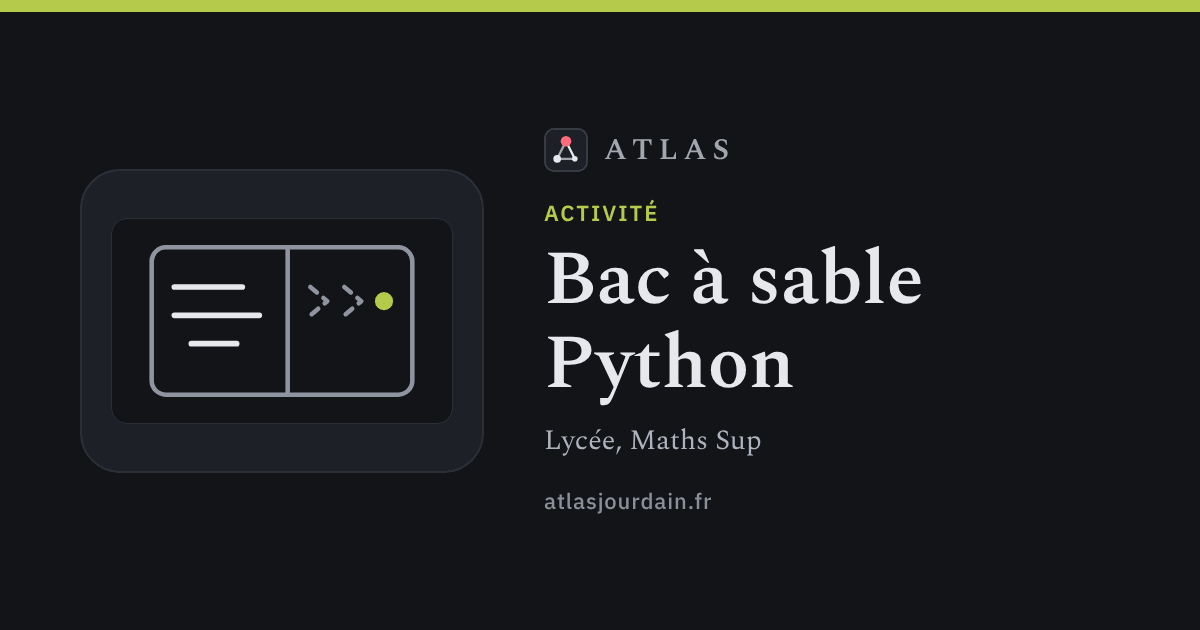
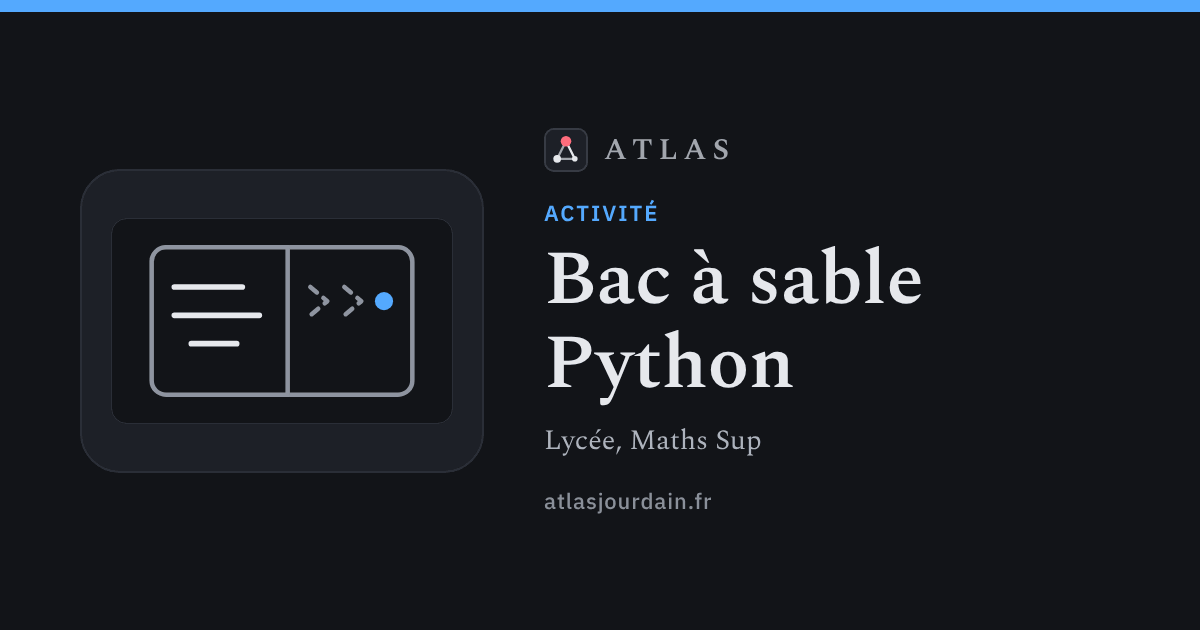
Activités : aperçu de partage du bac à sable Python à sa couleur
Claude-Session: https://claude.ai/code/session_01Fc4dPFi51AuBaZFB9X2Mw3

Changed region(s): [[0.0, 0.0, 1.0, 0.0302], [0.4317, 0.3016, 0.555, 0.3619], [0.3083, 0.4524, 0.3392, 0.5127]]

diff --git a/MEMO_atlas_activites.md b/MEMO_atlas_activites.md
@@ -1578,3 +1578,5 @@ Essai réel (Playwright, 1280 et 1600 px, 390 et 375 px, clair et sombre) : exé
 
 
 **Deux retouches du même jour (demandes de l'auteur).** Bac à sable Python : le texte sous l'atelier était limité à 78 caractères de large ; il remplit maintenant la page, comme dans les autres activités (règle du §123). Vignette du parcours du jour : trois des six cercles étaient posés à vue, à côté de la courbe en pointillés ; ils sont maintenant aux points calculés de la courbe de Bézier, (16 ; 54), (48 ; 20), (64 ; 37), (80 ; 54), (95,25 ; 40), (106 ; 20), et les cercles vides ont un fond opaque pour que les pointillés ne les traversent pas. RÈGLE rappelée : dans une vignette aussi, tout point annoncé sur une courbe se calcule.
+
+**Images d'aperçu et couleurs (question de l'auteur, 13 nov.).** L'empreinte d'une image d'aperçu porte le NOM de la variable de couleur et la vignette, pas la valeur de la couleur : changer la vignette ou la teinte d'une activité (son nom) fait refaire l'image, mais changer la valeur d'une variable du gabarit (comme `--activites-raison`, passé du rouge à l'or) ne la fait pas refaire ; il faut alors `node identite/fabriquer-apercus-pages.mjs <polices> --tout` (domaine À propos). État vérifié à l'œil le 13 nov. : parcours en rouge avec la nouvelle vignette, les quatre activités de Raisonner en or, Dix calculs en indigo (toutes refaites ce jour-là, leur niveau ayant changé). La teinte `python` manquait à la table de `lecture-activites.mjs` (aperçu olive) : ajoutée (`python: 'c-nb'`). Toute nouvelle teinte du catalogue doit y être inscrite.
